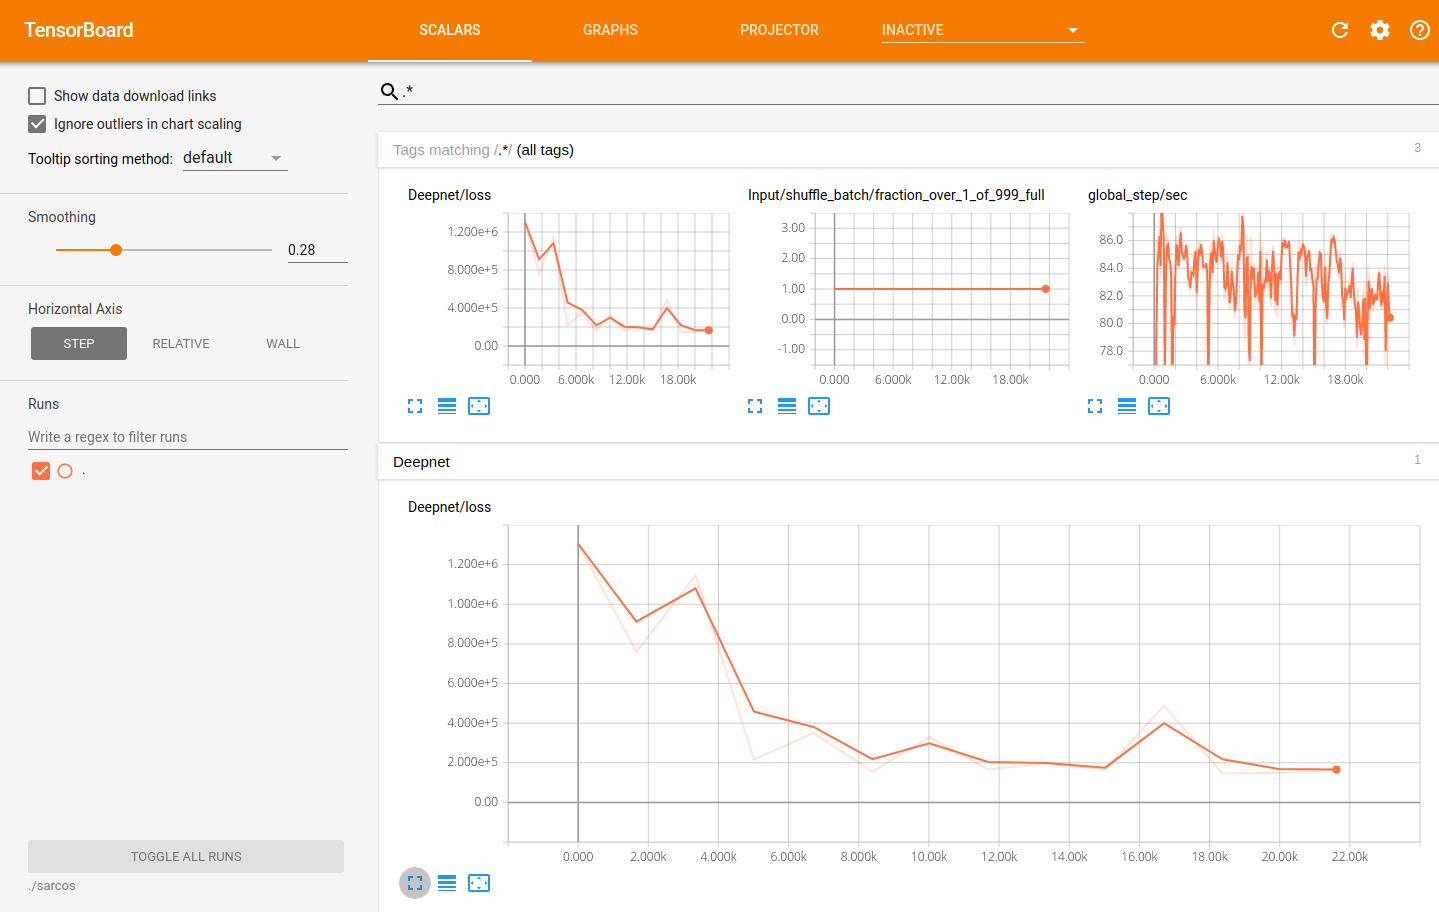
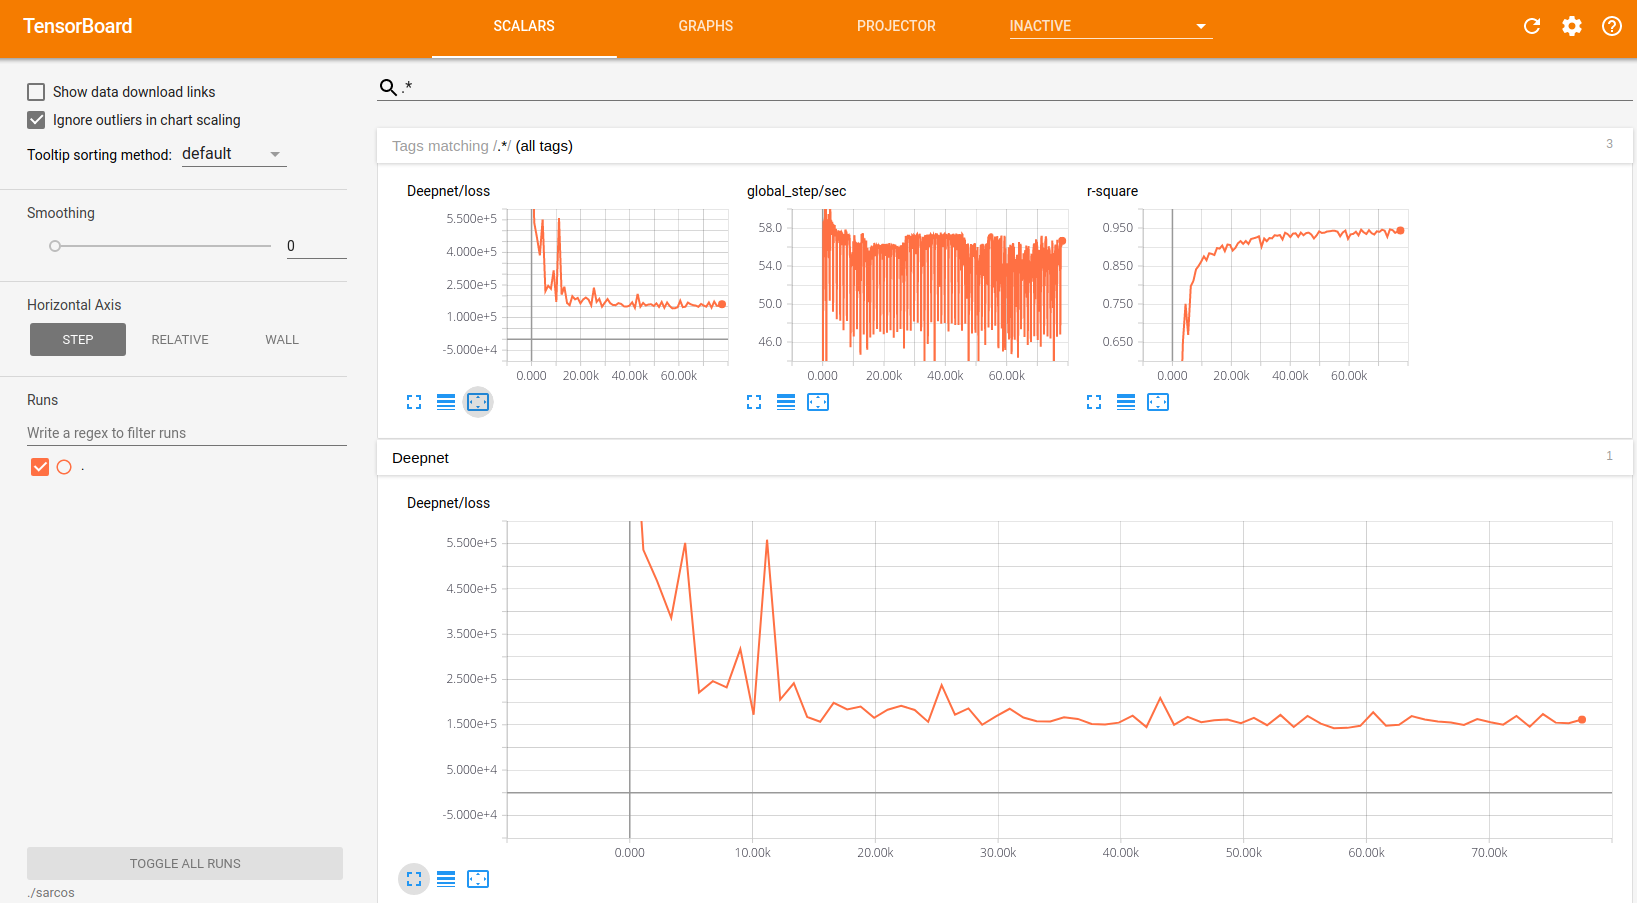
updated SARCOS demo to use Datasets, closes #128

diff --git a/demos/sarcos.py b/demos/sarcos.py
@@ -6,7 +6,6 @@ import numpy as np
 import tensorflow as tf
 from tensorflow.contrib.data import Dataset, Iterator
 from scipy.stats import norm
-from sklearn.metrics import r2_score
 from sklearn.preprocessing import StandardScaler
 
 import aboleth as ab
@@ -18,13 +17,13 @@ logger = logging.getLogger()
 logger.setLevel(logging.INFO)
 
 NSAMPLES = 10  # Number of random samples to get from an Aboleth net
-NFEATURES = 2000  # Number of random features/bases to use in the approximation
+NFEATURES = 1500  # Number of random features/bases to use in the approximation
 VARIANCE = 10.0  # Initial estimate of the observation variance
 
 # Random Fourier Features, this is setting up an anisotropic length scale, or
 # one length scale per dimension
-LENSCALE = ab.pos(tf.Variable(10 * np.ones((21, 1), dtype=np.float32)))
-KERNEL = ab.RBF(LENSCALE)
+LENSCALE = tf.Variable(5 * np.ones((21, 1), dtype=np.float32))
+KERNEL = ab.RBF(ab.pos(LENSCALE))
 
 # Variational Fourier Features -- length-scale setting here is the "prior"
 # LENSCALE = 10.
@@ -38,7 +37,7 @@ net = ab.stack(
 )
 
 # Learning and prediction settings
-BATCH_SIZE = 100  # number of observations per mini batch
+BATCH_SIZE = 50  # number of observations per mini batch
 NEPOCHS = 100  # Number of times to iterate though the dataset
 NPREDICTSAMPLES = 10  # results in NSAMPLES * NPREDICTSAMPLES samples
 
@@ -65,15 +64,12 @@ def main():
     Ys -= ym
 
     # Training batches
-    data_tr = Dataset.from_tensor_slices({'X': Xr, 'Y': Yr})
-    data_tr = data_tr.shuffle(buffer_size=1000)
-    data_tr = data_tr.repeat(NEPOCHS)
-    data_tr = data_tr.batch(BATCH_SIZE)
+    data_tr = Dataset.from_tensor_slices({'X': Xr, 'Y': Yr}) \
+        .shuffle(buffer_size=1000) \
+        .batch(BATCH_SIZE)
 
     # Testing iterators
-    data_ts = Dataset.from_tensors({'X': Xs, 'Y': Ys})
-    # data_ts = Dataset.from_tensors({'X': Xs})
-    data_ts = data_ts.repeat()
+    data_ts = Dataset.from_tensors({'X': Xs, 'Y': Ys}).repeat()
 
     with tf.name_scope("DataIterators"):
         iterator = Iterator.from_structure(data_tr.output_types,
@@ -96,6 +92,9 @@ def main():
         global_step = tf.train.create_global_step()
         train = optimizer.minimize(loss, global_step=global_step)
 
+    with tf.name_scope("Test"):
+        r2 = rsquare(data['Y'], Phi)
+
     # Logging
     log = tf.train.LoggingTensorHook(
         {'step': global_step, 'loss': loss},
@@ -107,32 +106,46 @@ def main():
             scaffold=tf.train.Scaffold(local_init_op=training_init),
             checkpoint_dir="./sarcos/",
             save_summaries_steps=None,
-            save_checkpoint_secs=60,
+            save_checkpoint_secs=20,
             save_summaries_secs=20,
             hooks=[log]
     ) as sess:
-        try:
-            while not sess.should_stop():
-                sess.run(train)
-        except tf.errors.OutOfRangeError:
-            print('Input queues have been exhausted!')
-            pass
+        summary_writer = sess._hooks[1]._summary_writer
+        for i in range(NEPOCHS):
+
+            # Train for one epoch
+            try:
+                while not sess.should_stop():
+                    sess.run(train)
+            except tf.errors.OutOfRangeError:
+                pass
+
+            # Init testing and assess and log R-square score on test set
+            sess.run(testing_init)
+            r2_score = sess.run(r2)
+            score_sum = tf.Summary(value=[
+                tf.Summary.Value(tag='r-square', simple_value=r2_score)
+            ])
+            summary_writer.add_summary(score_sum, sess.run(global_step))
+
+            # Re-init training
+            sess.run(training_init)
 
         # Prediction
         sess.run(testing_init)
         Ey = ab.predict_samples(Phi, feed_dict=None, n_groups=NPREDICTSAMPLES,
                                 session=sess)
-        sigma2 = var.eval(session=sess)
+        sigma2 = sess.run(var)
+        r2_score = sess.run(r2)
 
-    # Score
+    # Score mean standardised log likelihood
     Eymean = Ey.mean(axis=0)
     Eyvar = Ey.var(axis=0) + sigma2  # add sigma2 for obervation noise
-    r2 = r2_score(Ys.flatten(), Eymean)
     snlp = msll(Ys.flatten(), Eymean, Eyvar, Yr.flatten())
 
     print("------------")
     print("r-square: {:.4f}, smse: {:.4f}, msll: {:.4f}."
-          .format(r2, 1 - r2, snlp))
+          .format(r2_score, 1 - r2_score, snlp))
 
 
 def msll(Y_true, Y_pred, V_pred, Y_train):
@@ -142,6 +155,14 @@ def msll(Y_true, Y_pred, V_pred, Y_train):
     rand_ll = norm.logpdf(Y_true, loc=mt, scale=st)
     msll = - (ll - rand_ll).mean()
     return msll
+
+
+def rsquare(Y, P):
+    """Coefficient of Determinantion (R-square) in TensorFlow."""
+    SS_ref = tf.reduce_sum((Y - tf.reduce_mean(P, axis=0))**2)
+    SS_tot = tf.reduce_sum((Y - tf.reduce_mean(Y))**2)
+    R2 = 1 - SS_ref / SS_tot
+    return R2
 
 
 if __name__ == "__main__":

diff --git a/docs/demos.rst b/docs/demos.rst
@@ -52,14 +52,17 @@ anisotropic) kernels.
 We have also demonstrated how you can use `TensorBoard
 <https://www.tensorflow.org/get_started/summaries_and_tensorboard>`_ with the
 models you construct in Aboleth, so you can visually monitor the progress of
-learning. This has the nice side-effect of also enabling model check point
-saving, so you can actually *resume* learning this model if you run the script
-*again*!!
+learning. This also allows us to visualise the model's performance on the
+*validation* set every training epoch. Using TensorBoard has the nice
+side-effect of also enabling model check point saving, so you can actually
+*resume* learning this model if you run the script *again*!!
 
 .. figure:: tensorboard_sarcos.png
 
     Using TensorBoard to visualise the learning progress of the Aboleth model
-    fitting the SARCOS dataset. 
+    fitting the SARCOS dataset. The "r-square" plot here is made from
+    evaluating the R-square performance on the held-out test set every epoch of
+    training.
 
 This demo will make a ``sarcos`` folder in the directory you run the demo from.
 This contains all of the model checkpoints, and to visualise these with
